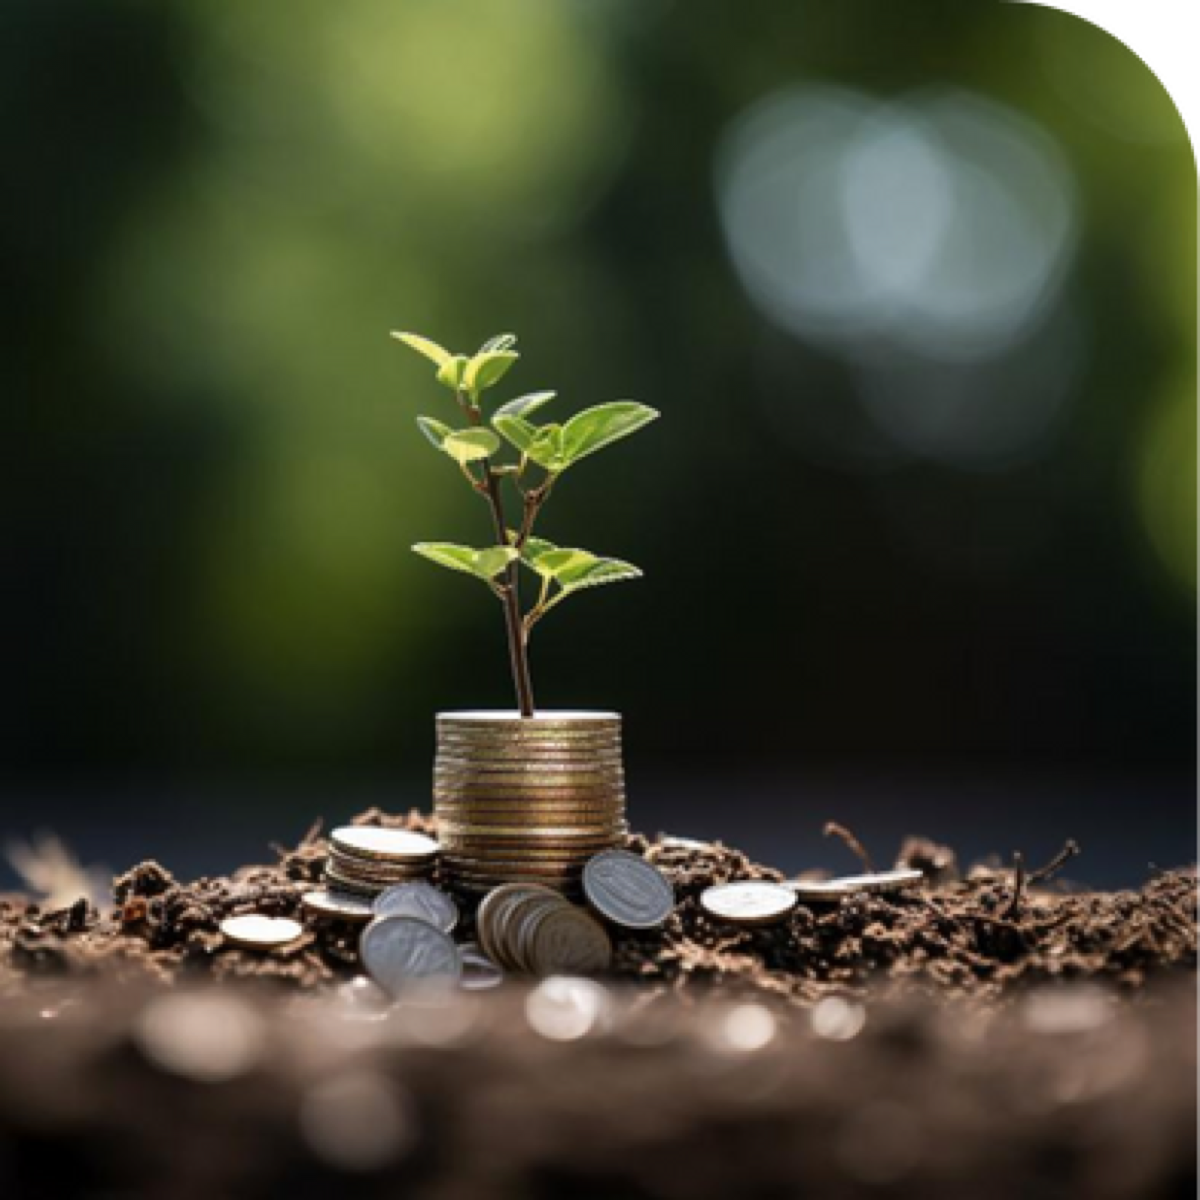
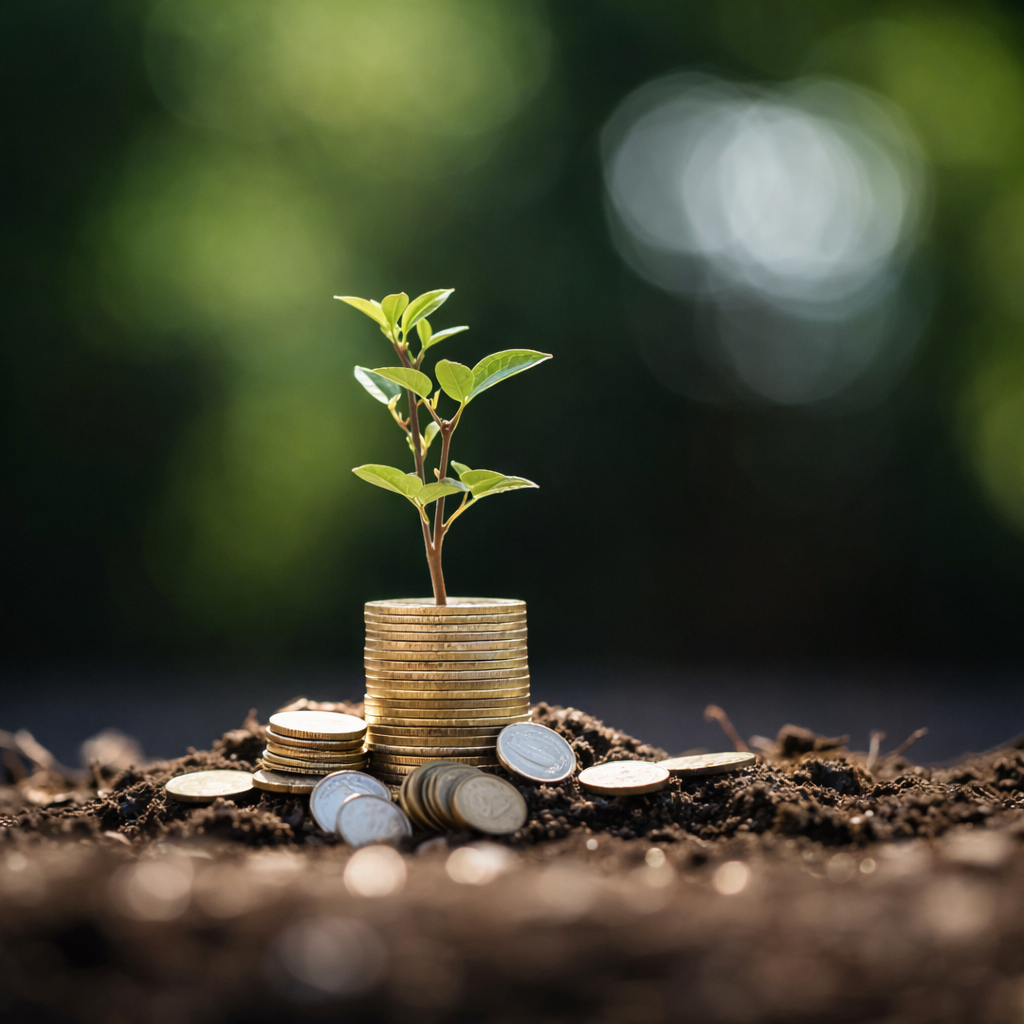
Fix blur images

diff --git a/src/pages/index.tsx b/src/pages/index.tsx
@@ -4,6 +4,7 @@ import Image from "next/image";
 import Link from "next/link";
 import Head from "next/head";
 import SectionHeader from "../components/SectionHeader";
+import { heroImage } from "../lib/media";
 
 export default function Home() {
   const industries = [
@@ -75,21 +76,21 @@ export default function Home() {
       eyebrow: "Agents",
       title: "Agent operations radar",
       description: "Track ownership, readiness, and evaluation signals in one view.",
-      image: "/media/hero/hero-agents.png",
+      image: heroImage("hero-agents.png"),
       highlight: "Ownership + evals",
     },
     {
       eyebrow: "MCP",
       title: "Integration surface map",
       description: "Connect tools with standardized MCP server templates and patterns.",
-      image: "/media/hero/hero-mcp.png",
+      image: heroImage("hero-mcp.png"),
       highlight: "Connector-ready",
     },
     {
       eyebrow: "Knowledge",
       title: "Unified knowledge signals",
       description: "Podcasts, white papers, and updates organized for fast discovery.",
-      image: "/media/hero/hero-resources.png",
+      image: heroImage("hero-resources.png"),
       highlight: "Curated signals",
     },
   ];

diff --git a/src/pages/aixcelerator/mcp.tsx b/src/pages/aixcelerator/mcp.tsx
@@ -7,6 +7,7 @@ import { useEffect, useMemo, useRef, useState } from "react";
 import type { GetServerSideProps } from "next";
 import fallbackMCPs from "../../data/mcps.json";
 import { fetchMCPServers, MCPServer } from "../../lib/cms";
+import { heroImage } from "../../lib/media";
 import { useRouter } from "next/router";
 import Head from "next/head";
 import Link from "next/link";
@@ -269,7 +270,7 @@ export default function MCP({ mcps, allowPrivate, fetchError }: MCPPageProps) {
           kicker="Integration preview"
           title="Connector-ready surface"
           description="Standardize tool access with MCP server patterns and endpoints."
-          image="/media/hero/hero-mcp.png"
+          image={heroImage("hero-mcp.png")}
           alt="MCP integration network overview"
           aspect="wide"
           fit="cover"

diff --git a/src/pages/aixcelerator/agents.tsx b/src/pages/aixcelerator/agents.tsx
@@ -7,6 +7,7 @@ import { useEffect, useMemo, useRef, useState } from "react";
 import type { GetServerSideProps } from "next";
 import fallbackAgents from "../../data/agents.json";
 import { Agent, fetchAgents } from "../../lib/cms";
+import { heroImage } from "../../lib/media";
 import { useRouter } from "next/router";
 import Head from "next/head";
 import Link from "next/link";
@@ -269,7 +270,7 @@ export default function Agents({ agents, allowPrivate, fetchError }: AgentsPageP
           kicker="Catalog preview"
           title="Agent coverage at a glance"
           description="Quickly see ownership, visibility, and readiness status."
-          image="/media/hero/hero-agents.png"
+          image={heroImage("hero-agents.png")}
           alt="Operators reviewing agent coverage"
           aspect="wide"
           fit="cover"

diff --git a/src/pages/aixcelerator/index.tsx b/src/pages/aixcelerator/index.tsx
@@ -3,6 +3,7 @@ import Link from "next/link";
 import SectionHeader from "../../components/SectionHeader";
 import MediaPanel from "../../components/MediaPanel";
 import { coreCapabilities, modularLayers } from "../../data/platformCapabilities";
+import { heroImage } from "../../lib/media";
 
 export default function AIXcelerator() {
   return (
@@ -24,7 +25,7 @@ export default function AIXcelerator() {
           kicker="Platform preview"
           title="Governed delivery surface"
           description="A clean, visual surface for readiness, workflow alignment, and modular layers."
-          image="/media/hero/hero-platform.png"
+          image={heroImage("hero-platform.png")}
           alt="Governed delivery platform preview"
           aspect="wide"
           fit="cover"

diff --git a/src/pages/industries/index.tsx b/src/pages/industries/index.tsx
@@ -2,6 +2,7 @@ import Layout from "../../components/Layout";
 import Link from "next/link";
 import SectionHeader from "../../components/SectionHeader";
 import MediaPanel from "../../components/MediaPanel";
+import { heroImage } from "../../lib/media";
 
 export default function IndustriesIndex() {
   const industries = [
@@ -60,7 +61,7 @@ export default function IndustriesIndex() {
           kicker="Industry coverage"
           title="Service line coverage map"
           description="A quick view of industry-aligned AI service lines."
-          image="/media/hero/hero-industries.png"
+          image={heroImage("hero-industries.png")}
           alt="Industry landscape overview"
           aspect="wide"
           fit="cover"

diff --git a/src/pages/solutions/index.tsx b/src/pages/solutions/index.tsx
@@ -2,6 +2,7 @@ import Layout from "../../components/Layout";
 import Link from "next/link";
 import SectionHeader from "../../components/SectionHeader";
 import MediaPanel from "../../components/MediaPanel";
+import { heroImage } from "../../lib/media";
 
 export default function Solutions() {
   const solutions = [
@@ -79,7 +80,7 @@ export default function Solutions() {
           kicker="Solution preview"
           title="Operational playbooks"
           description="Repeatable solution patterns ready for deployment."
-          image="/media/hero/hero-solutions.png"
+          image={heroImage("hero-solutions.png")}
           alt="Operational playbook overview"
           aspect="wide"
           fit="cover"

diff --git a/src/pages/updates/index.tsx b/src/pages/updates/index.tsx
@@ -3,6 +3,7 @@ import Link from "next/link";
 import Head from "next/head";
 import SectionHeader from "../../components/SectionHeader";
 import MediaPanel from "../../components/MediaPanel";
+import { heroImage } from "../../lib/media";
 
 export default function Updates() {
   const updateHighlights = [
@@ -57,7 +58,7 @@ export default function Updates() {
           kicker="Signal feed"
           title="Updates and announcements"
           description="Product releases and ecosystem signals in one place."
-          image="/media/hero/hero-updates.png"
+          image={heroImage("hero-updates.png")}
           alt="City skyline highlighting update signals"
           aspect="wide"
           fit="cover"

diff --git a/src/pages/resources/index.tsx b/src/pages/resources/index.tsx
@@ -3,6 +3,7 @@ import Link from "next/link";
 import Head from "next/head";
 import SectionHeader from "../../components/SectionHeader";
 import MediaPanel from "../../components/MediaPanel";
+import { heroImage } from "../../lib/media";
 
 export default function Resources() {
   const resourceHighlights = [
@@ -57,7 +58,7 @@ export default function Resources() {
           kicker="Knowledge hub"
           title="Research and artifacts"
           description="Podcasts, books, white papers, and curated signals."
-          image="/media/hero/hero-resources.png"
+          image={heroImage("hero-resources.png")}
           alt="Research workspace overview"
           aspect="wide"
           fit="cover"

diff --git a/next.config.ts b/next.config.ts
@@ -1,6 +1,17 @@
 import type { NextConfig } from "next";
 
 const nextConfig: NextConfig = {
+  images: {
+    localPatterns: [
+      {
+        pathname: "/media/hero/**",
+      },
+      {
+        pathname: "/media/hero/**",
+        search: "?v=*",
+      },
+    ],
+  },
   async rewrites() {
     return [
       { source: "/podcasts", destination: "/resources/podcasts" },

diff --git a/src/lib/media.ts b/src/lib/media.ts
@@ -1,0 +1,4 @@
+export const HERO_ASSET_VERSION = "20260211";
+
+export const heroImage = (filename: string) =>
+  `/media/hero/${filename}?v=${HERO_ASSET_VERSION}`;
